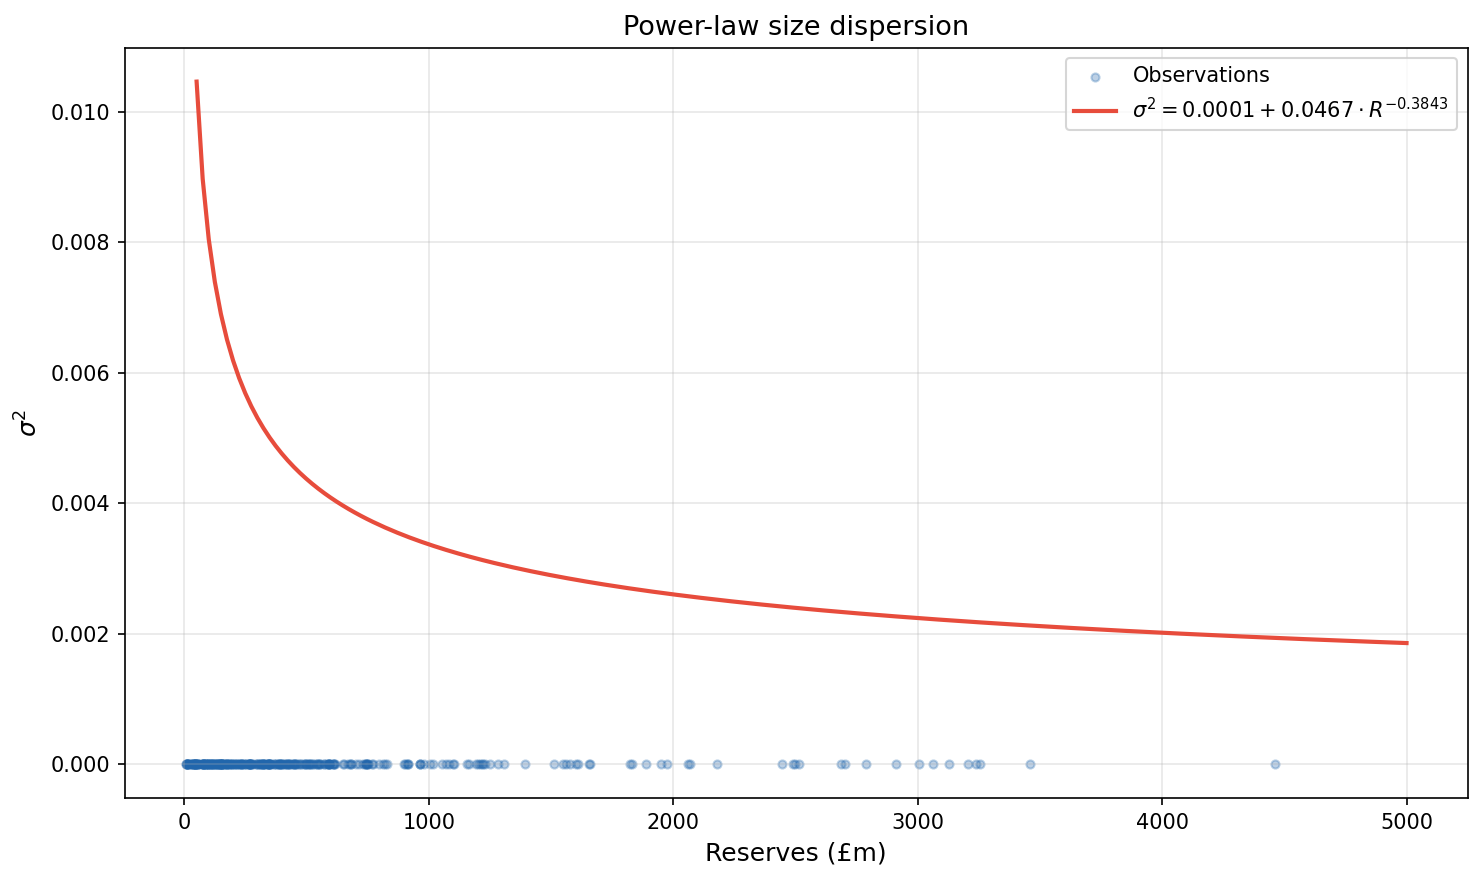
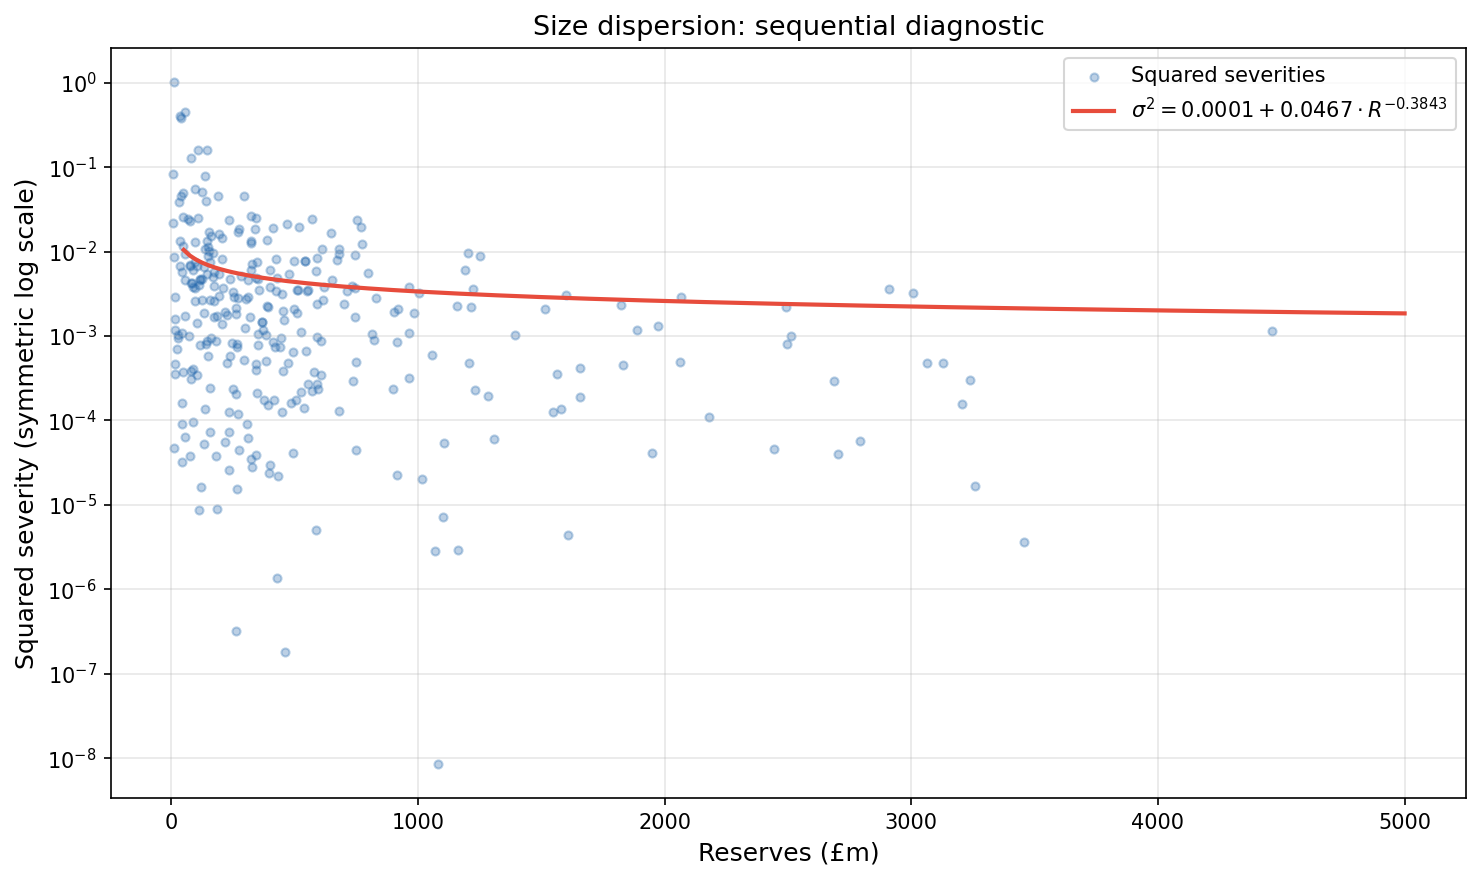
Correct diagnostic plot coordinates and filing label

diff --git a/src/run_analysis.py b/src/run_analysis.py
@@ -7876,15 +7876,17 @@ def _gen_fig_power_law_size(results):
     # Overlay scatter if available
     scatter_pts = _safe_get(results, "joint_composition", "scatter_points", default=[])
     if scatter_pts:
-        rx = [p.get("reserves", p.get("x", 0)) for p in scatter_pts]
-        ry = [p.get("var_sq", p.get("y", 0)) for p in scatter_pts]
-        ax.scatter(rx, ry, alpha=0.3, s=15, color=_PP_RAW_COL, label="Observations")
+        valid = [p for p in scatter_pts if p.get("reserves") is not None and p.get("y_raw_sq") is not None]
+        rx = [p["reserves"] for p in valid]
+        ry = [p["y_raw_sq"] for p in valid]
+        ax.scatter(rx, ry, alpha=0.3, s=15, color=_PP_RAW_COL, label="Squared severities")
 
     r_range = np.linspace(50, 5000, 200)
     s2 = float(A) + float(B) * r_range ** float(C)
     ax.plot(r_range, s2, '-', color=_PP_ADV_COL, linewidth=2,
             label=f"$\\sigma^2 = {A:.4f} + {B:.4f} \\cdot R^{{{C:.4f}}}$")
-    _setup_ax(ax, "Reserves (£m)", "$\\sigma^2$", "Power-law size dispersion")
+    ax.set_yscale("symlog", linthresh=1e-9)
+    _setup_ax(ax, "Reserves (£m)", "Squared severity (symmetric log scale)", "Size dispersion: sequential diagnostic")
     ax.legend(fontsize=10)
     _save_fig(fig, "fig_power_law_size.png")
 
@@ -7927,18 +7929,19 @@ def _gen_fig_power_law_hhi(results):
         return
     fig, ax = plt.subplots(figsize=(10, 6))
 
-    # Overlay quantile bins if available
-    qb = _safe_get(results, "exposure_composition", "hhi_scatter", "quantile_bins", default=[])
-    if qb:
-        bx = [b.get("hhi_mid", b.get("x", 0)) for b in qb]
-        by = [b.get("var_sq", b.get("y", 0)) for b in qb]
-        ax.scatter(bx, by, s=60, color=_PP_RAW_COL, zorder=5, label="Quantile bins")
+    # The fitted model records means of winsorised squared severity in HHI bins.
+    bins = sh.get("bin_points", [])
+    if bins:
+        bx = [b["x"] for b in bins]
+        by = [b["y"] for b in bins]
+        ax.scatter(bx, by, s=60, color=_PP_RAW_COL, zorder=5,
+                   label="Binned mean squared severity (winsorised)")
 
     hhi_range = np.linspace(0.05, 1.0, 200)
     s2 = float(A) + float(B) * hhi_range ** float(C)
     ax.plot(hhi_range, s2, '-', color=_PP_ADV_COL, linewidth=2,
             label=f"$\\sigma^2 = {A:.4f} + {B:.4f} \\cdot \\mathrm{{HHI}}^{{{C:.4f}}}$")
-    _setup_ax(ax, "HHI", "$\\sigma^2$", "Power-law HHI dispersion")
+    _setup_ax(ax, "HHI", "Mean squared severity", "HHI dispersion: single-factor diagnostic")
     ax.legend(fontsize=10)
     _save_fig(fig, "fig_power_law_hhi.png")
 
@@ -7963,20 +7966,22 @@ def _gen_fig_size_adjusted_hhi(results):
 
     fig, ax = plt.subplots(figsize=(10, 6))
     if pts:
-        xs = [p.get("diversification", p.get("x", 0)) for p in pts]
-        ys = [p.get("adj_var_sq", p.get("y", 0)) for p in pts]
-        ax.scatter(xs, ys, alpha=0.3, s=15, color=_PP_RAW_COL, label="Observations")
+        valid = [p for p in pts if p.get("x") is not None and p.get("y_adj_sq") is not None]
+        xs = [p["x"] for p in valid]
+        ys = [p["y_adj_sq"] for p in valid]
+        ax.scatter(xs, ys, alpha=0.3, s=15, color=_PP_RAW_COL, label="Adjusted squared severities")
 
     A = dh.get("A")
     B = dh.get("B")
     C = dh.get("C")
     if A is not None and B is not None and C is not None:
-        hhi_range = np.linspace(0.05, 1.0, 200)
-        s2 = float(A) + float(B) * hhi_range ** float(C)
-        ax.plot(hhi_range, s2, '-', color=_PP_ADV_COL, linewidth=2, label="Adjusted model")
+        diversification = np.linspace(0.0, 0.95, 200)
+        s2 = float(A) + float(B) * (1.0 - diversification) ** float(C)
+        ax.plot(diversification, s2, '-', color=_PP_ADV_COL, linewidth=2, label="Sequential diagnostic fit")
 
-    _setup_ax(ax, "Diversification", "Size-adjusted $\\sigma^2$",
-              "Size-adjusted dispersion vs diversification")
+    ax.set_yscale("symlog", linthresh=1e-9)
+    _setup_ax(ax, "Diversification (1 - HHI)", "Size-adjusted squared severity (symmetric log scale)",
+              "Size-adjusted dispersion: sequential diagnostic")
     ax.legend(fontsize=10)
     _save_fig(fig, "fig_size_adjusted_hhi.png")
 
@@ -8332,7 +8337,7 @@ def _gen_table39(results):
         return f"{n:,}".replace(",", "{,}")
 
     run = fl["files_retrieved"]
-    rows = [f"Filing PDFs retrieved & -- & {f(run)} \\\\"]
+    rows = [f"Filings retrieved & -- & {f(run)} \\\\"]
     for label, key in (("no deterministic reading (the parsers found no prior-year figure; the models were not run)",
                         "excluded"),
                        ("loader skips (disclosure screen, unresolved eligibility or unavailable eligible outcome)",

diff --git a/src/test_diagnostic_plot_coordinates.py b/src/test_diagnostic_plot_coordinates.py
@@ -1,0 +1,69 @@
+"""The diagnostic plots must use the stored fitted data, not fabricated zeroes."""
+import json
+from pathlib import Path
+
+import matplotlib.pyplot as plt
+import numpy as np
+import pytest
+import run_analysis as ra
+
+
+@pytest.fixture
+def results():
+    return json.loads((Path(__file__).resolve().parent.parent / 'model/exposure_results.json').read_text(encoding='utf8'))
+
+
+def capture(monkeypatch, function, results):
+    figures = []
+    monkeypatch.setattr(ra, '_save_fig', lambda fig, name: figures.append((fig, name)))
+    function(results)
+    assert len(figures) == 1
+    return figures[0][0]
+
+
+def test_size_plot_uses_raw_squared_severities(results, monkeypatch):
+    fig = capture(monkeypatch, ra._gen_fig_power_law_size, results)
+    points = results['joint_composition']['scatter_points']
+    offsets = fig.axes[0].collections[0].get_offsets()
+    np.testing.assert_allclose(offsets[:, 0], [p['reserves'] for p in points])
+    np.testing.assert_allclose(offsets[:, 1], [p['y_raw_sq'] for p in points])
+    assert len(offsets) == 313 and np.all(offsets[:, 1] > 0)
+    assert fig.axes[0].get_yscale() == "symlog"
+    plt.close(fig)
+
+
+def test_hhi_plot_uses_actual_fitted_squared_severity_bins(results, monkeypatch):
+    fig = capture(monkeypatch, ra._gen_fig_power_law_hhi, results)
+    bins = results['exposure_composition']['dispersion_models']['single_h']['bin_points']
+    offsets = fig.axes[0].collections[0].get_offsets()
+    np.testing.assert_allclose(offsets[:, 0], [p['x'] for p in bins])
+    np.testing.assert_allclose(offsets[:, 1], [p['y'] for p in bins])
+    assert len(offsets) == len(bins) and np.all(offsets[:, 1] > 0)
+    plt.close(fig)
+
+
+def test_adjusted_plot_uses_adjusted_severities_and_concentration_curve(results, monkeypatch):
+    fig = capture(monkeypatch, ra._gen_fig_size_adjusted_hhi, results)
+    ax = fig.axes[0]
+    pts = results['joint_composition']['scatter_points']
+    offsets = ax.collections[0].get_offsets()
+    np.testing.assert_allclose(offsets[:, 0], [p['x'] for p in pts])
+    np.testing.assert_allclose(offsets[:, 1], [p['y_adj_sq'] for p in pts])
+    assert len(offsets) == 313 and np.all(offsets[:, 1] > 0)
+    assert fig.axes[0].get_yscale() == "symlog"
+    fit = results['joint_composition']['disp_h_adjusted']
+    x, y = ax.lines[0].get_data()
+    np.testing.assert_allclose(y, fit['A'] + fit['B'] * (1 - x) ** fit['C'])
+    assert y[0] > y[-1]
+    plt.close(fig)
+
+
+def test_zero_severities_remain_plotted(results, monkeypatch):
+    first = results['joint_composition']['scatter_points'][0]
+    first['y_raw_sq'] = first['y_adj_sq'] = 0.0
+    for function in (ra._gen_fig_power_law_size, ra._gen_fig_size_adjusted_hhi):
+        fig = capture(monkeypatch, function, results)
+        assert fig.axes[0].collections[0].get_offsets()[0, 1] == 0
+        assert fig.axes[0].get_yscale() == "symlog"
+        assert np.isfinite(fig.axes[0].transData.transform((0, 0))).all()
+        plt.close(fig)

diff --git a/paper_pack/table39_reconciliation.tex b/paper_pack/table39_reconciliation.tex
@@ -7,7 +7,7 @@
 \toprule
 \headrow Step & Records & Running total \\
 \midrule
-Filing PDFs retrieved & -- & 1{,}065 \\
+Filings retrieved & -- & 1{,}065 \\
 \quad less: no deterministic reading (the parsers found no prior-year figure; the models were not run) & $-20$ & 1{,}045 \\
 \quad less: loader skips (disclosure screen, unresolved eligibility or unavailable eligible outcome) & $-107$ & 938 \\
 \quad less: no usable development reading (the extraction's validation failed and no model carries a development percentage) & $-4$ & 934 \\

diff --git a/src/test_no_mature_cohort.py b/src/test_no_mature_cohort.py
@@ -174,6 +174,7 @@ def test_the_structural_step_keeps_its_name_and_no_longer_says_no_stated_figure(
     from test_runoff_label import _table39
     rows = [line for line in _table39(monkeypatch, 1).splitlines() if "loader skips (disclosure screen" in line]
     assert len(rows) == 1
+    assert "Filings retrieved" in _table39(monkeypatch, 1)
     assert "loader skips (disclosure screen, unresolved eligibility or unavailable eligible outcome)" in rows[0]
     assert "no stated development figure" not in rows[0]
 
